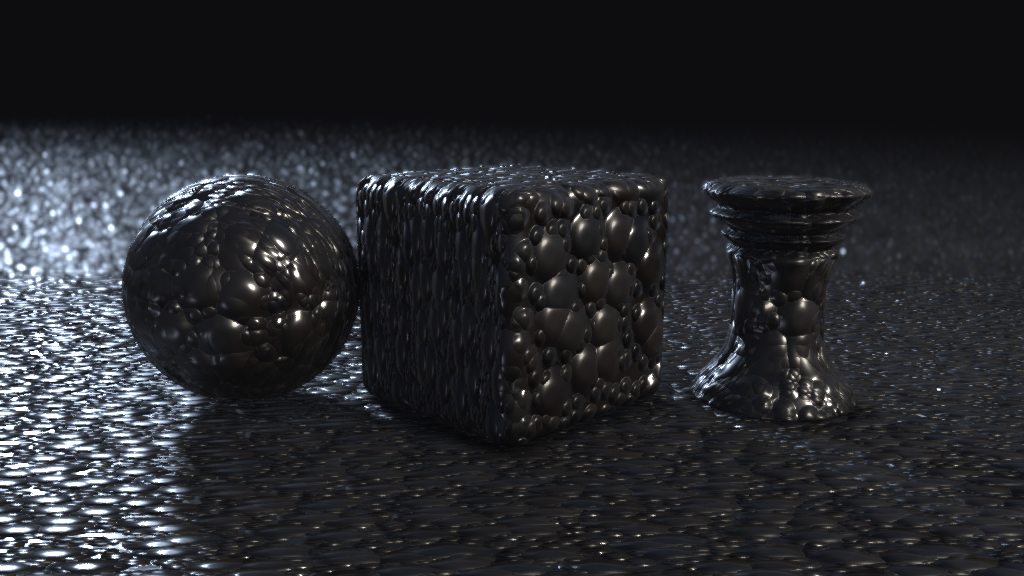
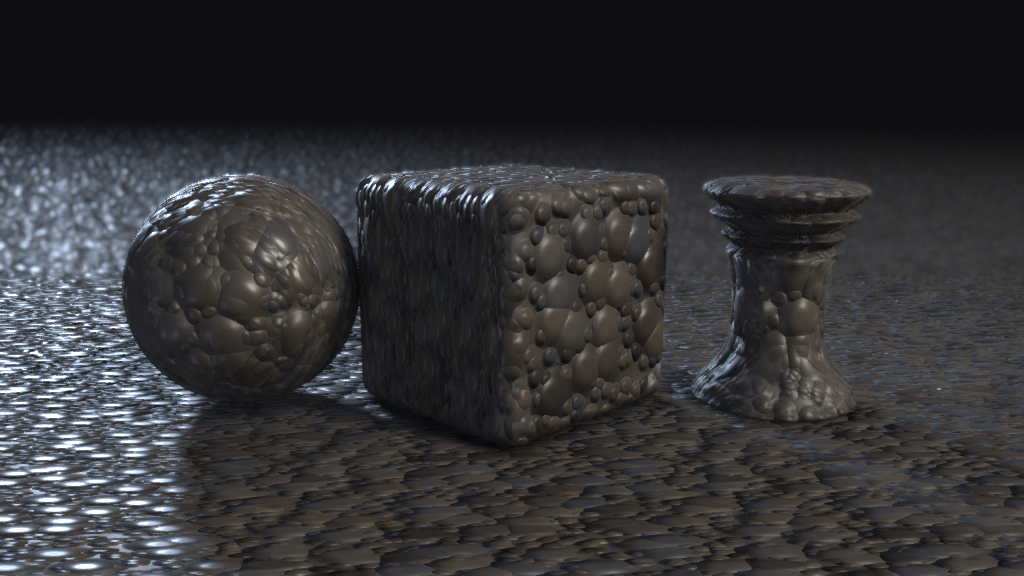
docs(gallery): s14 tile at the damp preset (Dryness 0.5)
The default (Dryness 0, fully wet) reads as black bubbles on the lit rig.
_make_showcase gains _PARAM_OVERRIDES + apply_showcase_overrides(), applied
on a copy for still and gif renders (slot, gen_parameters remote and linked
Dryness widget), so `still s14_wet_river_stone` reproduces the damp tile.
The cookbook graph's default is unchanged. s14 is not a hero ident; a future
gif of s14 would also render damp.

Changed region(s): [[0.0, 0.25, 1.0, 1.0]]

diff --git a/quality/_make_showcase.py b/quality/_make_showcase.py
@@ -50,6 +50,34 @@ _TILE_OVERRIDES = {
 def _tile_for(basename: str) -> float:
     return _TILE_OVERRIDES.get(basename, 0.45)
 
+# Per-material exposed-slot values for the showcase render only: a gallery
+# tile can show a host material at a preset that reads better on the lit rig
+# than its cookbook default, without changing the cookbook graph. Each entry
+# is (subgraph node, slot, value). s14's default (Dryness 0, fully wet) reads
+# as black bubbles on the rig; Dryness 0.5 is the card's "damp stone".
+_PARAM_OVERRIDES = {
+    "s14_wet_river_stone": [("dry_layer", "param0", 0.5)],
+}
+
+
+def apply_showcase_overrides(ptex: dict, basename: str) -> dict:
+    """Return a copy of ptex with basename's _PARAM_OVERRIDES applied. Each
+    slot is set on the subgraph node, its gen_parameters remote, and every
+    inner widget the slot links to, so nothing relies on Material Maker's
+    load-time propagation. The input dict is not modified."""
+    import copy
+    g = copy.deepcopy(ptex)
+    for sub_name, slot, value in _PARAM_OVERRIDES.get(basename, []):
+        sub = next(n for n in g["nodes"] if n["name"] == sub_name)
+        sub["parameters"][slot] = copy.deepcopy(value)
+        remote = next(n for n in sub["nodes"] if n["name"] == "gen_parameters")
+        remote["parameters"][slot] = copy.deepcopy(value)
+        widget = next(w for w in remote["widgets"] if w["name"] == slot)
+        for lw in widget["linked_widgets"]:
+            inner = next(n for n in sub["nodes"] if n["name"] == lw["node"])
+            inner["parameters"][lw["widget"]] = copy.deepcopy(value)
+    return g
+
 STILL_SIZE = (1024, 576)
 
 
@@ -122,8 +150,8 @@ def _render_still(ident: str):
 
     cfg = load_config()
     src = resolve_source(ident)
-    ptex = json.loads(src.read_text(encoding="utf-8"))
     basename = Path(ident).stem if ident.endswith(".ptex") else ident
+    ptex = apply_showcase_overrides(json.loads(src.read_text(encoding="utf-8")), basename)
 
     with tempfile.TemporaryDirectory() as tmpdir:
         outdir = str(Path(tmpdir).resolve())
@@ -179,8 +207,8 @@ def cmd_gif(ident: str, width: int, frames: int, duration: int) -> int:
 
     cfg = load_config()
     src = resolve_source(ident)
-    ptex = json.loads(src.read_text(encoding="utf-8"))
     basename = Path(ident).stem if ident.endswith(".ptex") else ident
+    ptex = apply_showcase_overrides(json.loads(src.read_text(encoding="utf-8")), basename)
 
     with tempfile.TemporaryDirectory() as tmpdir:
         outdir = str(Path(tmpdir).resolve())

diff --git a/tests/test_make_showcase.py b/tests/test_make_showcase.py
@@ -33,3 +33,25 @@ def test_downscale_gif_frames_preserves_aspect(tmp_path):
     fr = tmp_path / "f.png"; Image.new("RGB", (1024, 576)).save(fr)
     out = ms.downscale_gif_frames([fr], width=512)
     assert out[0].size == (512, 288)
+
+def test_showcase_override_sets_s14_damp_on_a_copy():
+    import json
+    src = ms.resolve_source("s14_wet_river_stone")
+    before = src.read_bytes()
+    g = json.loads(before.decode("utf-8"))
+    out = ms.apply_showcase_overrides(g, "s14_wet_river_stone")
+    sub = next(n for n in out["nodes"] if n["name"] == "dry_layer")
+    remote = next(n for n in sub["nodes"] if n["name"] == "gen_parameters")
+    dryness = next(n for n in sub["nodes"] if n["name"] == "Dryness")
+    assert sub["parameters"]["param0"] == 0.5
+    assert remote["parameters"]["param0"] == 0.5
+    assert dryness["parameters"]["color"] == 0.5
+    # input dict and cookbook file untouched
+    orig_sub = next(n for n in g["nodes"] if n["name"] == "dry_layer")
+    assert orig_sub["parameters"]["param0"] == 0
+    assert src.read_bytes() == before
+
+def test_showcase_override_is_identity_for_unlisted_material():
+    import json
+    g = json.loads(ms.resolve_source("s07_cobblestone").read_text(encoding="utf-8"))
+    assert ms.apply_showcase_overrides(g, "s07_cobblestone") == g
